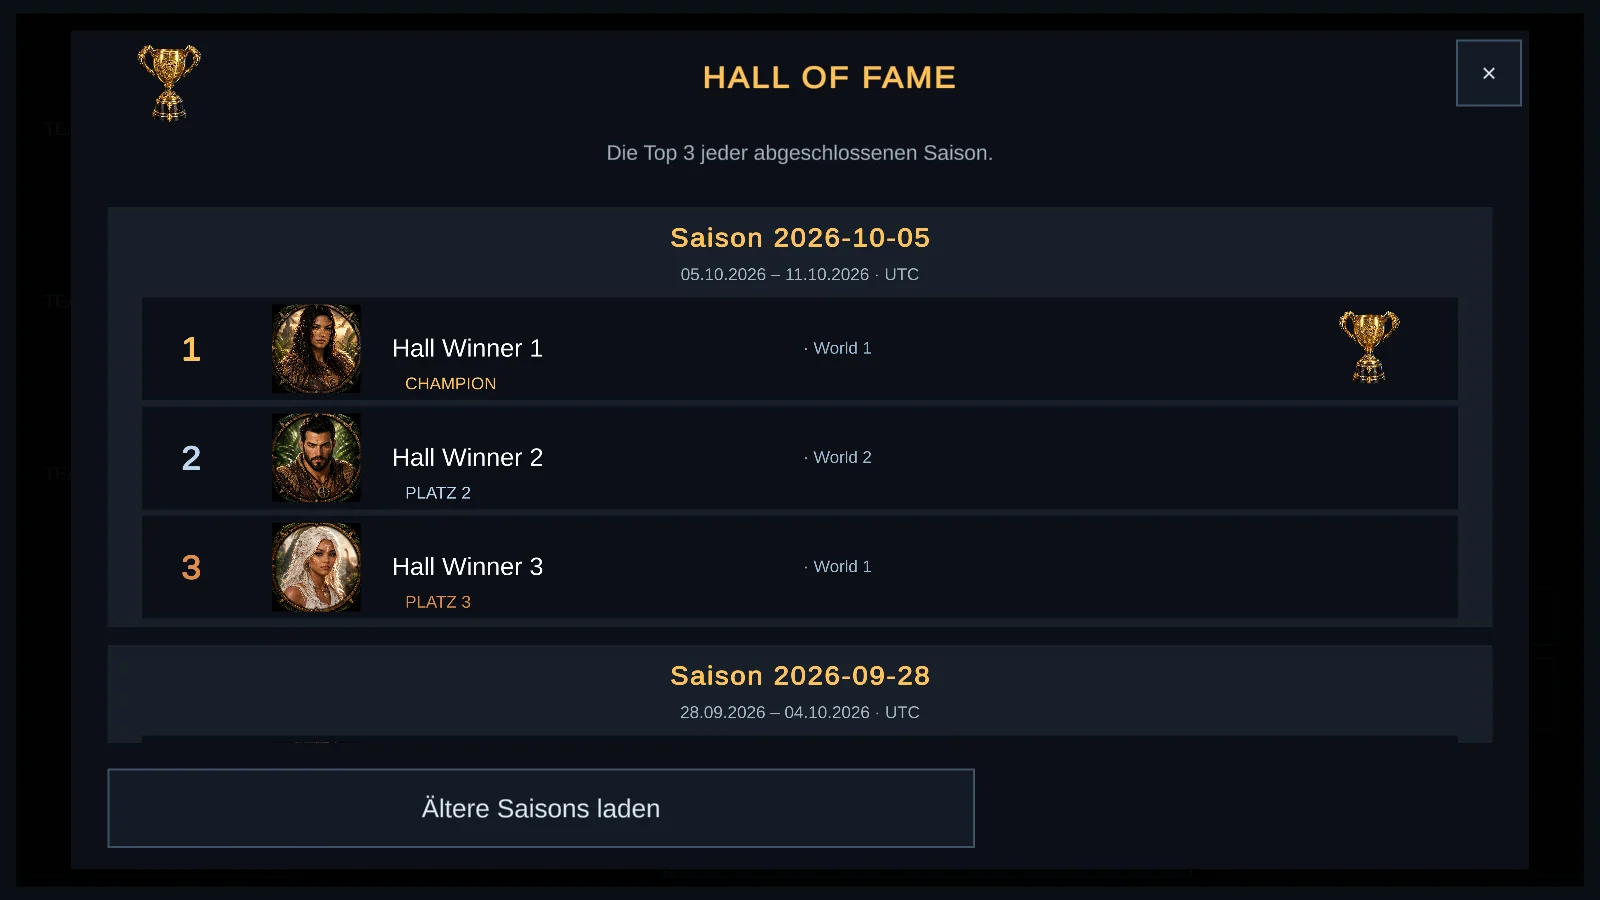
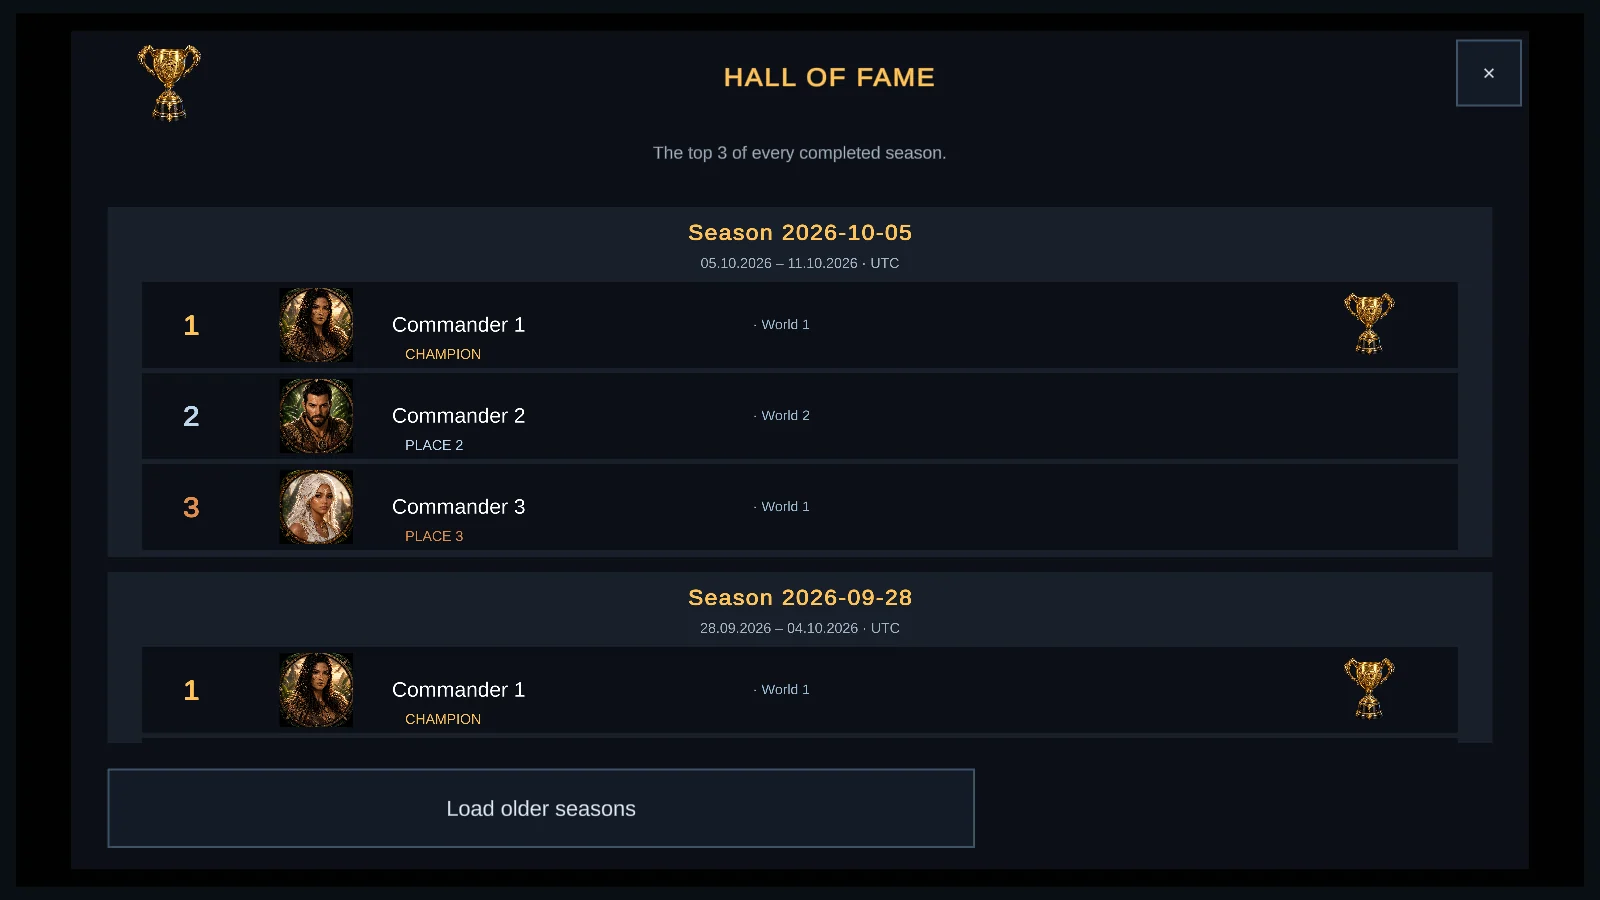
Replace tournament and alliance screenshots with native English captures

diff --git a/artwork/gameplay/README.md b/artwork/gameplay/README.md
@@ -2,12 +2,12 @@
 
 These development captures are published with the game owner's permission from the website tasks on 2–3 November 2026.
 
-Five images are frames from the native Unity gameplay trailer, including its original English captions. The alliance image is an existing game UI capture with sample teams and scores; it uses the German in-game language. No gameplay imagery was generated or retouched for the website.
+Five images are frames from the native Unity gameplay trailer, including its original English captions. The alliance image uses the existing game interface source with sample teams and scores, rendered using the game's English translation catalogue. No gameplay imagery was generated or retouched for the website.
 
-The Live Arena bracket and Hall of Fame are native Unity UI renders from the game's existing validation captures. Their original German UI is preserved. They contain simulated participants and example results; they do not represent a current live season. The website uses English feature descriptions and a general development notice instead of technical preview labels on individual images. The bracket render includes the Sunday third-place match. Its trophy and flame sprites are existing game assets, whose source is documented in `Docs/TournamentBracketAssets_2026-10-10.md` in the game project.
+The Live Arena bracket and Hall of Fame are native Unity UI renders using the existing game interface and `Loc.SetLanguage("en")`. Both were captured in an isolated Unity 6000.4.11f1 project for this website update. They contain simulated participants and example results; they do not represent a current live season. The website uses English feature descriptions and a general development notice instead of technical preview labels on individual images. The bracket render includes the Sunday third-place match. Its trophy and flame sprites are existing game assets, whose source is documented in `Docs/TournamentBracketAssets_2026-10-10.md` in the game project.
 
 `provenance.json` records the project-relative sources, video timestamps, source SHA-256 hashes and hashes of both proportional WebP sizes. The 480-pixel files serve the selector thumbnails; 1600-pixel files serve the selected image and full screenshot link. Generated review PNGs remain local.
 
 Game facts were checked against `Docs/LiveRounds_2026-09-26.md`, `Docs/LiveArenaSpectators_2026-10-09.md` and the alliance event client services in the game project. The planned December 2026 Android release was confirmed by the owner in this session; it is a target, not a fixed launch date.
 
-The 3 November refresh also checks `CloudFunctions/functions/live-rounds-policy.js` for the 19:30 UTC third-place match, `live-rounds-service.js` for podium completion, and `Docs/LiveRoundsHallOfFame_2026-10-13.md` for stored season history. Original source PNGs and preparation scripts remain local; only the optimized WebP assets and provenance are committed.
+The 3 November refresh also checks `CloudFunctions/functions/live-rounds-policy.js` for the 19:30 UTC third-place match, `live-rounds-service.js` for podium completion, and `Docs/LiveRoundsHallOfFame_2026-10-13.md` for stored season history. The three interface captures use English controls, headings, round labels and captions; native text dumps were checked alongside the images. Original source PNGs, isolated Unity projects and preparation scripts remain local; only the optimized WebP assets and provenance are committed. No real account data or live API writes are used for the captures.
